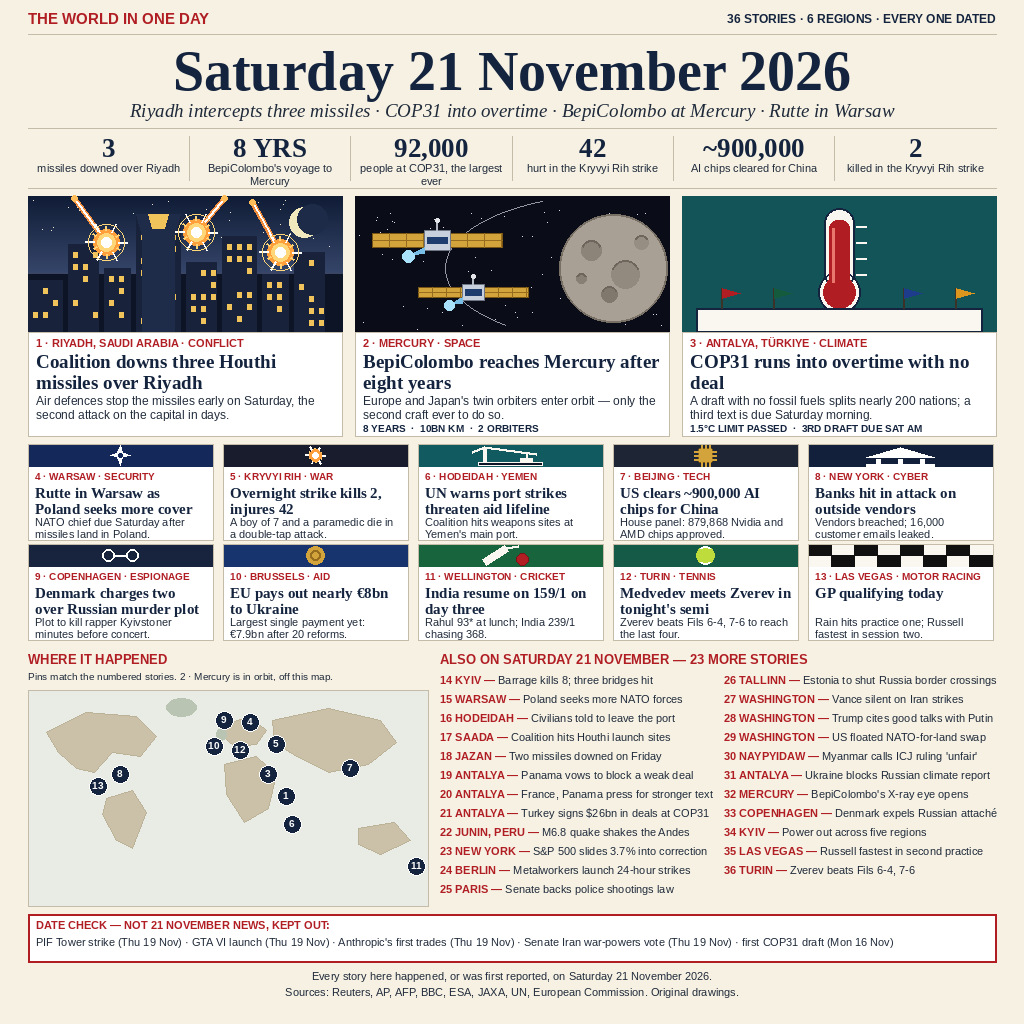
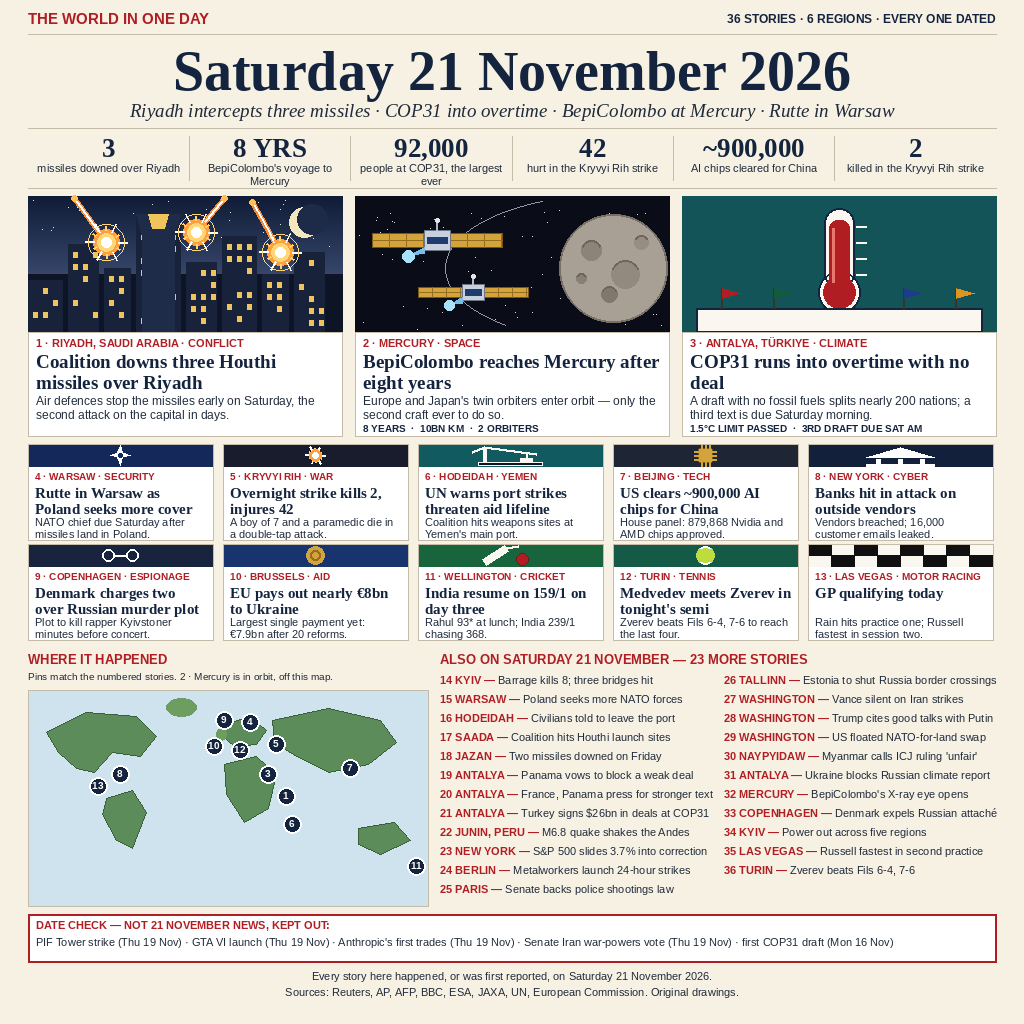
Map fix: green land on pale blue sea, pins ringed white (Bos: peta harus hijau, bukan putih)

Changed region(s): [[0.0312, 0.6562, 0.4375, 0.9062]]

diff --git a/paint_front.py b/paint_front.py
@@ -37,9 +37,9 @@ INK = (20, 36, 62)           # navy, ~15:1 on white, ~12:1 on cream
 BODY = (31, 42, 58)          # near-navy body copy
 RED = (176, 30, 36)          # kicker red, ~7:1 on white
 RULE = (196, 188, 168)       # hairline rules
-LAND = (203, 192, 168)       # map continents, darker so land reads small
-LAND2 = (186, 196, 178)      # second land tone
-SEA = (233, 236, 228)        # map sea, still light
+LAND = (91, 140, 90)         # map continents: strong atlas green #5b8c5a
+LAND2 = (110, 158, 95)       # second land tone, lighter green #6e9e5f
+SEA = (207, 227, 238)        # map sea: pale blue #cfe3ee, green land stands out
 CHIP_BG = (238, 233, 219)    # stat chip fill
 
 FONT_DIR = "/usr/share/fonts/truetype/liberation"
@@ -401,14 +401,14 @@ def paint_map(draw, x0, y0, w, h):
     ]
     for poly in continents:
         pts = [(x0 + px, y0 + py) for px, py in poly]
-        draw.polygon(pts, fill=LAND, outline=(188, 178, 152))
+        draw.polygon(pts, fill=LAND, outline=(58, 96, 58))
     # Greenland + Britain hints
     draw.ellipse([x0 + 138, y0 + 8, x0 + 168, y0 + 26], fill=LAND2)
     draw.ellipse([x0 + 188, y0 + 38, x0 + 198, y0 + 50], fill=LAND2)
     for num, px, py in PINS:
         cx, cy = x0 + px, y0 + py
         draw.ellipse([cx - 9, cy - 9, cx + 9, cy + 9], fill=INK)
-        draw.ellipse([cx - 9, cy - 9, cx + 9, cy + 9], outline=PANEL, width=1)
+        draw.ellipse([cx - 9, cy - 9, cx + 9, cy + 9], outline=PANEL, width=2)
         f = face("sans_b", 10)
         tw = text_w(draw, str(num), f)
         draw.text((cx - tw / 2, cy - 7), str(num), font=f, fill=PANEL)
